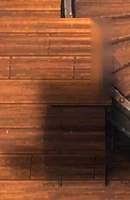
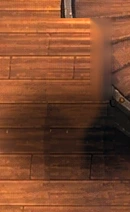
Убраны артефакты: пол под новым пультом и под открытым подарком
Claude-Session: https://claude.ai/code/session_012xtjAX5rXew1YLaQF1BB6s

diff --git a/index.html b/index.html
@@ -2078,7 +2078,7 @@ const IMG_L=new Image();let IMG_L_OK=false;IMG_L.onload=()=>{IMG_L_OK=true};IMG_
 const IX=x=>x/3,IY=y=>y*0.34375;               // пиксели картинки 1536x1024 -> HD 512x352
 const OPEN={};for(const k of ['gift','obs','stable','clock','globe']){const im=new Image();im.src='rooms/open_'+k+'.webp';OPEN[k]=im}
 const drawOpen=(k,x,y,w,h)=>{const im=OPEN[k];if(im.complete&&im.naturalWidth){g.imageSmoothingEnabled=true;g.drawImage(im,IX(x),IY(y),IX(w),IY(h));g.imageSmoothingEnabled=false}};
-const GPP={l_gift:[1280,660,170,150],w_nopult:[250,560,130,200],l_fire:[664,188,243,290],l_door:[6,300,262,518],l_tree:[1270,276,266,408],c_door:[13,329,287,448],c_chest:[1041,449,180,170],c_rug:[826,606,168,98],o_dome:[442,0,634,694],o_curt:[1086,136,288,338],o_crys:[1369,266,98,328],o_door:[1426,386,110,298],o_globe:[518,729,299,211],o_chest:[810,770,199,182],s_sleigh:[0,560,520,400],s_nosled:[0,560,520,400],s_tarp:[1,586,488,338],s_chest:[1236,646,300,328],w_locker:[575,109,259,297],w_mail:[952,153,124,119],w_door:[1214,314,322,442],w_lever:[286,556,138,138],k_tin:[705,211,170,124],w_box0:[133,796,159,176],w_box1:[288,796,164,176],w_box2:[453,796,154,176],w_box3:[613,796,154,176],w_box4:[773,796,154,176],w_box5:[928,796,159,176],w_box6:[1088,796,154,176],w_box7:[1243,796,159,176],o_stars:[0,0,1536,300],l_rugfold:[440,630,200,140],f_nolamp:[574,222,96,158],k_dough:[683,395,170,125],k_tray:[838,466,262,100]};const GP={};for(const k of [...Object.keys(GPP),'safe0','safe1','shoe_hot_s','shoe_cold_s','drawing','s_sled','s_ladder','w_pult0','w_pult1','s_icebucket','tongs','s_rope','o_stars','l_rugfold']){const im=new Image();im.src='rooms/gp/'+k+'.webp';GP[k]=im}
+const GPP={l_gift:[1280,660,170,150],w_nopult:[250,560,130,212],l_fire:[664,188,243,290],l_door:[6,300,262,518],l_tree:[1270,276,266,408],c_door:[13,329,287,448],c_chest:[1041,449,180,170],c_rug:[826,606,168,98],o_dome:[442,0,634,694],o_curt:[1086,136,288,338],o_crys:[1369,266,98,328],o_door:[1426,386,110,298],o_globe:[518,729,299,211],o_chest:[810,770,199,182],s_sleigh:[0,560,520,400],s_nosled:[0,560,520,400],s_tarp:[1,586,488,338],s_chest:[1236,646,300,328],w_locker:[575,109,259,297],w_mail:[952,153,124,119],w_door:[1214,314,322,442],w_lever:[286,556,138,138],k_tin:[705,211,170,124],w_box0:[133,796,159,176],w_box1:[288,796,164,176],w_box2:[453,796,154,176],w_box3:[613,796,154,176],w_box4:[773,796,154,176],w_box5:[928,796,159,176],w_box6:[1088,796,154,176],w_box7:[1243,796,159,176],o_stars:[0,0,1536,300],l_rugfold:[440,630,200,140],f_nolamp:[574,222,96,158],k_dough:[683,395,170,125],k_tray:[838,466,262,100]};const GP={};for(const k of [...Object.keys(GPP),'safe0','safe1','shoe_hot_s','shoe_cold_s','drawing','s_sled','s_ladder','w_pult0','w_pult1','s_icebucket','tongs','s_rope','o_stars','l_rugfold']){const im=new Image();im.src='rooms/gp/'+k+'.webp';GP[k]=im}
 function gp(k,al){const im=GP[k],r=GPP[k];if(!okI(im))return;g.save();if(al!==undefined)g.globalAlpha=al;g.imageSmoothingEnabled=true;g.drawImage(im,IX(r[0]),IY(r[1]),IX(r[2]),IY(r[3]));g.restore()}
 const TARP=new Image();TARP.src='rooms/tarp.webp';const NOMILK=new Image();NOMILK.src='rooms/nomilk.webp';const NOBUCKET=new Image();NOBUCKET.src='rooms/nobucket.webp';
 function patchL(sx,sy,sw,sh,dx,dy){g.drawImage(IMG_L,sx,sy,sw,sh,IX(dx),IY(dy),IX(sw),IY(sh))}
